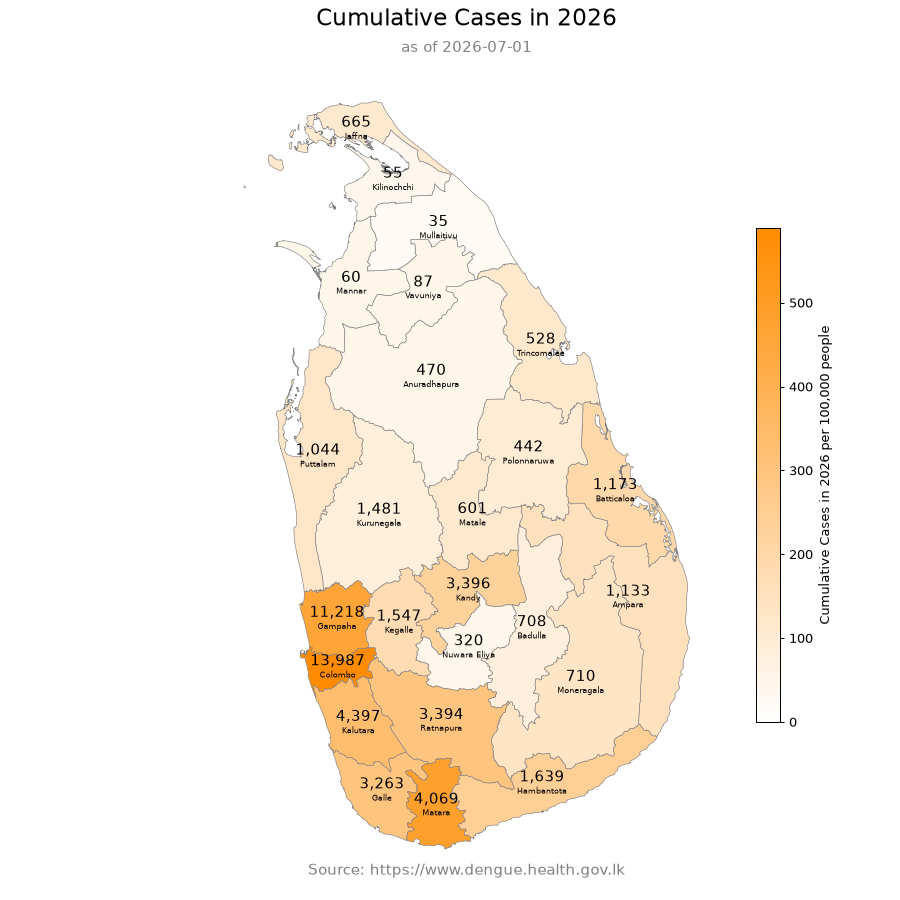
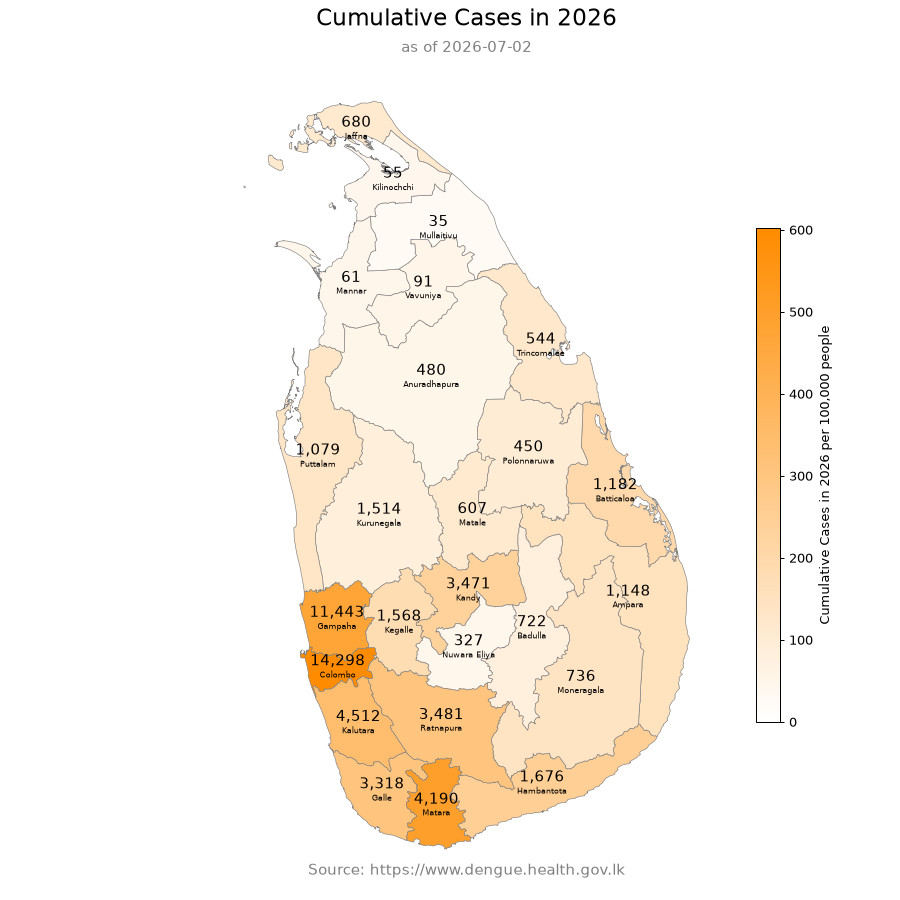
🤖 [pipeline.yml] 2026-07-03-0551

diff --git a/README.md b/README.md
@@ -268,6 +268,7 @@ As of 2026-06-21
 
 ### [National Dengue Control Unit - Daily Update](data/NDCUDaily)
 
+- [2026-07-02](data/NDCUDaily/2026/2026-07/2026-07-02)
 - [2026-07-01](data/NDCUDaily/2026/2026-07/2026-07-01)
 - [2026-06-30](data/NDCUDaily/2026/2026-06/2026-06-30)
 - [2026-06-29](data/NDCUDaily/2026/2026-06/2026-06-29)
